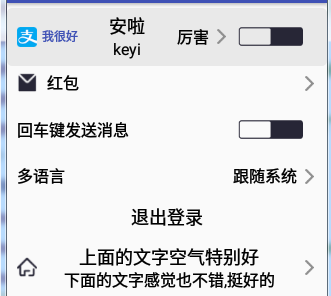
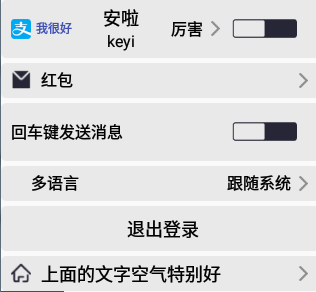
更改了一些方法,删除了一些无用的依赖

diff --git a/sivlibary/src/main/java/com/chenxin/sivlibary/SettingItem.java b/sivlibary/src/main/java/com/chenxin/sivlibary/SettingItem.java
@@ -53,15 +53,19 @@ public class SettingItem extends LinearLayout {
     private String mainText;
     private String nextText;
     private float leftTextMarginLeft;
+    private float mainTextMarginLeft;
     private float mainTextMarginTop;
     private float nextTextMarginBottom;
     private float rightTextMarginRight;
+    private int mainTextGravity;
     private boolean isLeftTextView;
     private boolean isRightTextView;
     private boolean isMainTextView;
     private boolean isNextTextView;
     private OnToggleButtonChecked onToggleButtonChecked;
     private OnSettingItemClick onSettingItemClick;
+    private LayoutParams mainTextViewParams;
+    private LayoutParams nextTextViewParams;
 
     public void setOnSettingItemClick(OnSettingItemClick onSettingItemClick) {
         this.onSettingItemClick = onSettingItemClick;
@@ -135,6 +139,7 @@ public class SettingItem extends LinearLayout {
 
             isMainTextView = tArray.getBoolean(R.styleable.SettingItem_isMainTextViewCX, true);
             mainText = tArray.getString(R.styleable.SettingItem_mainTextCX);
+            mainTextMarginLeft = tArray.getDimension(R.styleable.SettingItem_mainTextMarginLeftCX,0);
             mainTextMarginTop = tArray.getLayoutDimension(R.styleable.SettingItem_mainTextMarginTopCX, 0);
 
             isNextTextView = tArray.getBoolean(R.styleable.SettingItem_isNextTextViewCX, false);
@@ -200,16 +205,17 @@ public class SettingItem extends LinearLayout {
         lLayoutParams.weight = 1;
         if (isMainTextView) {
             mainTextView.setText(mainText);
-            LayoutParams mainTextViewParams = new LayoutParams(ViewGroup.LayoutParams.WRAP_CONTENT,
+            mainTextViewParams = new LayoutParams(ViewGroup.LayoutParams.WRAP_CONTENT,
                     ViewGroup.LayoutParams.WRAP_CONTENT);
             mainTextViewParams.gravity = Gravity.CENTER_HORIZONTAL;
             mainTextViewParams.topMargin = (int) mainTextMarginTop;
+            mainTextViewParams.leftMargin = (int) mainTextMarginLeft;
             mainTextView.setTextSize(DefaultHighTextSize);
             mainTextView.setTextColor(DefaultTextColor);
             linearLayout.addView(mainTextView, mainTextViewParams);
             if (isNextTextView) {
                 nextTextView.setText(nextText);
-                LayoutParams nextTextViewParams = new LayoutParams(ViewGroup.LayoutParams.WRAP_CONTENT,
+                nextTextViewParams = new LayoutParams(ViewGroup.LayoutParams.WRAP_CONTENT,
                         ViewGroup.LayoutParams.WRAP_CONTENT);
                 nextTextViewParams.gravity = Gravity.CENTER_HORIZONTAL;
                 nextTextViewParams.bottomMargin = (int) nextTextMarginBottom;
@@ -474,5 +480,23 @@ public class SettingItem extends LinearLayout {
         if (toggleButton != null) {
             toggleButton.setButtonDrawable(resId);
         }
+    }
+
+    /**
+    * 更改mainTextView摆放的位置
+    *
+    */
+    public void setMainTextViewParams(int gravityId,int leftMargin) {
+        mainTextViewParams.gravity = gravityId;
+        mainTextViewParams.leftMargin = leftMargin;
+    }
+
+    /**
+     * 更改nextTextView摆放的位置
+     *
+     */
+    public void setNextTextViewParams(int gravityId,int leftMargin) {
+        nextTextViewParams.gravity = gravityId;
+        nextTextViewParams.leftMargin = leftMargin;
     }
 }

diff --git a/app/src/main/java/com/utouu/settingitem/MainActivity.java b/app/src/main/java/com/utouu/settingitem/MainActivity.java
@@ -3,6 +3,7 @@ package com.utouu.settingitem;
 import android.graphics.Color;
 import android.os.Bundle;
 import android.support.v7.app.AppCompatActivity;
+import android.view.Gravity;
 import android.view.View;
 import android.widget.ListView;
 import android.widget.Toast;
@@ -53,6 +54,8 @@ public class MainActivity extends AppCompatActivity {
         settingItem.setLeftText("我很好", getResources().getColor(R.color.colorPrimary), 12);
         //settingItem.setLeftIcon(false);
         settingItem.setBackgroundResource(R.drawable.item_shape_normal);
+        SettingItem settingItem1 = (SettingItem) findViewById(R.id.settingItem1);
+        settingItem1.setMainTextViewParams(Gravity.CENTER_VERTICAL,10);
     }
 
     static class ViewHolder {
